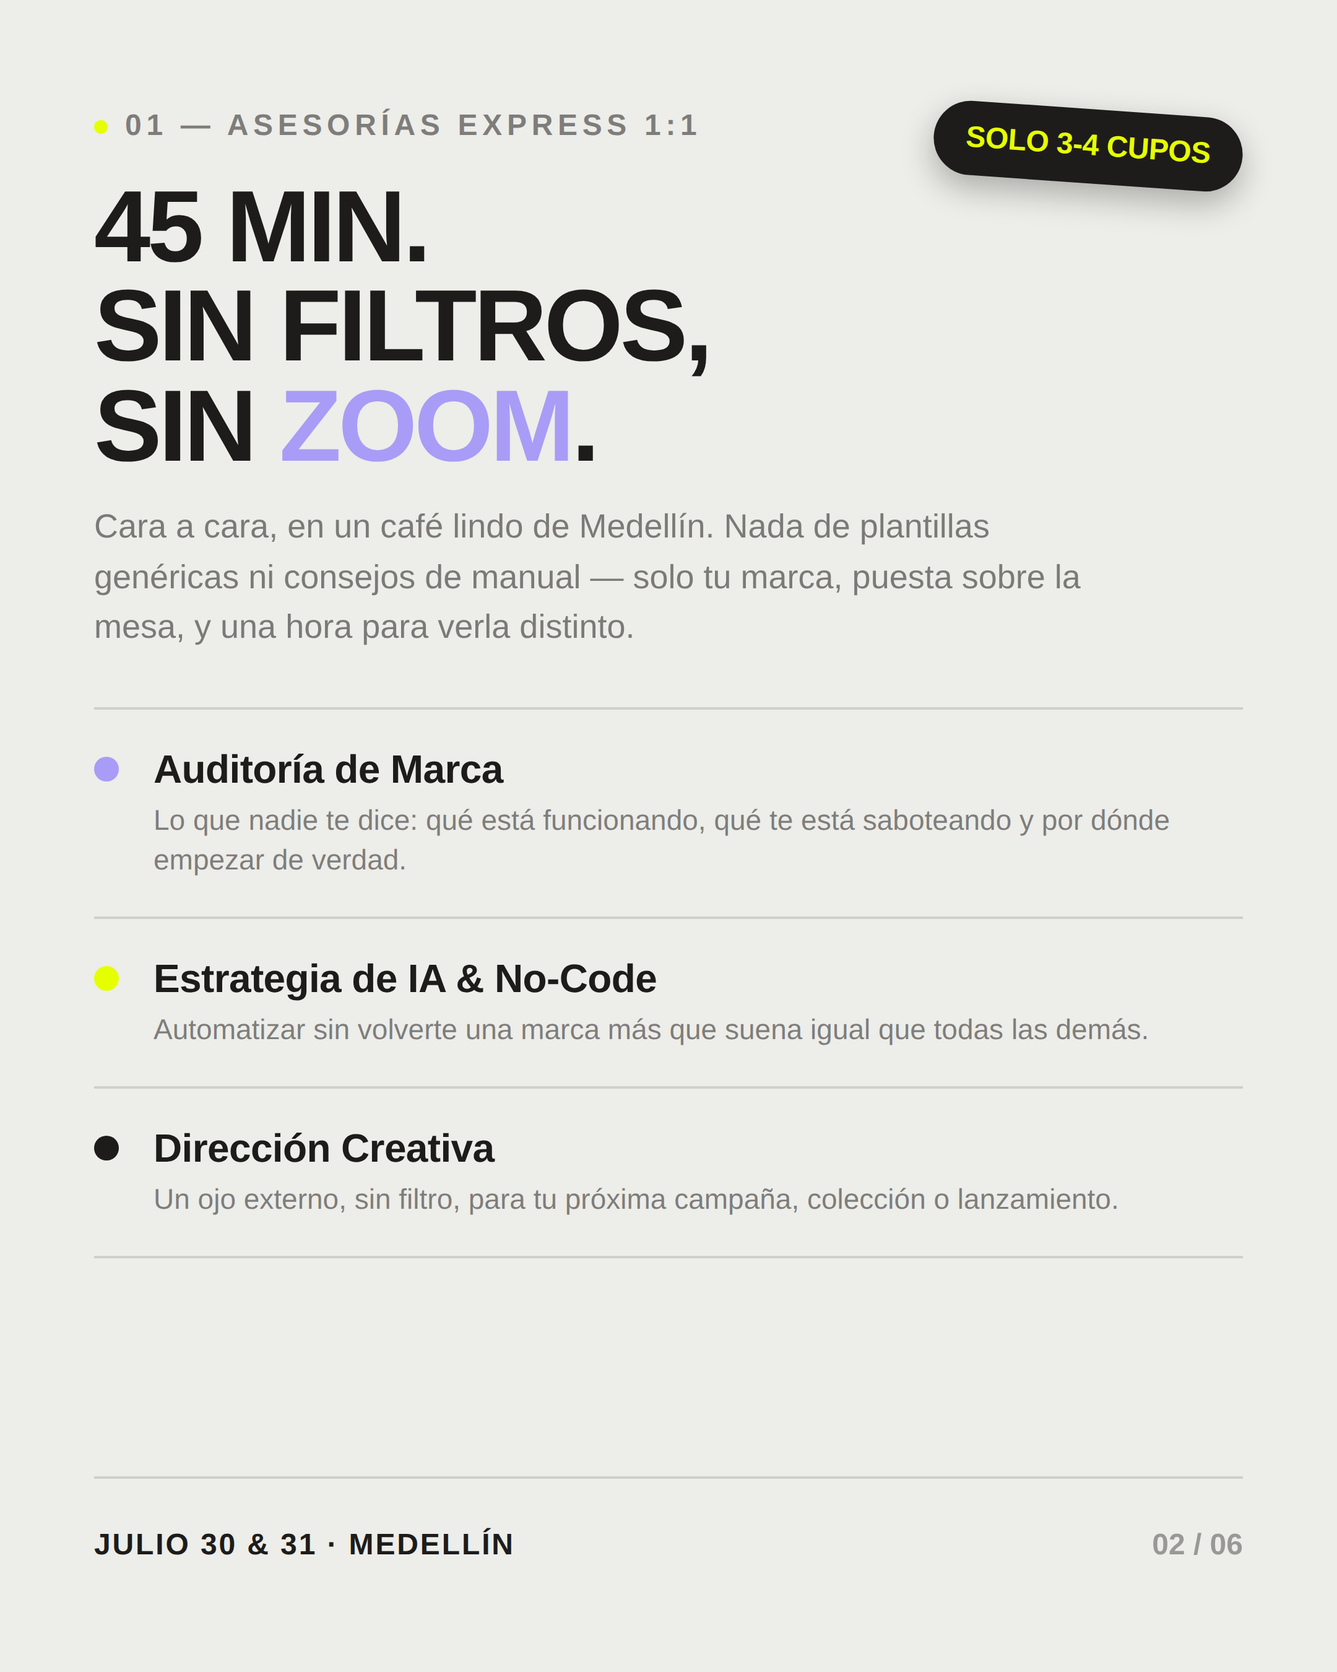
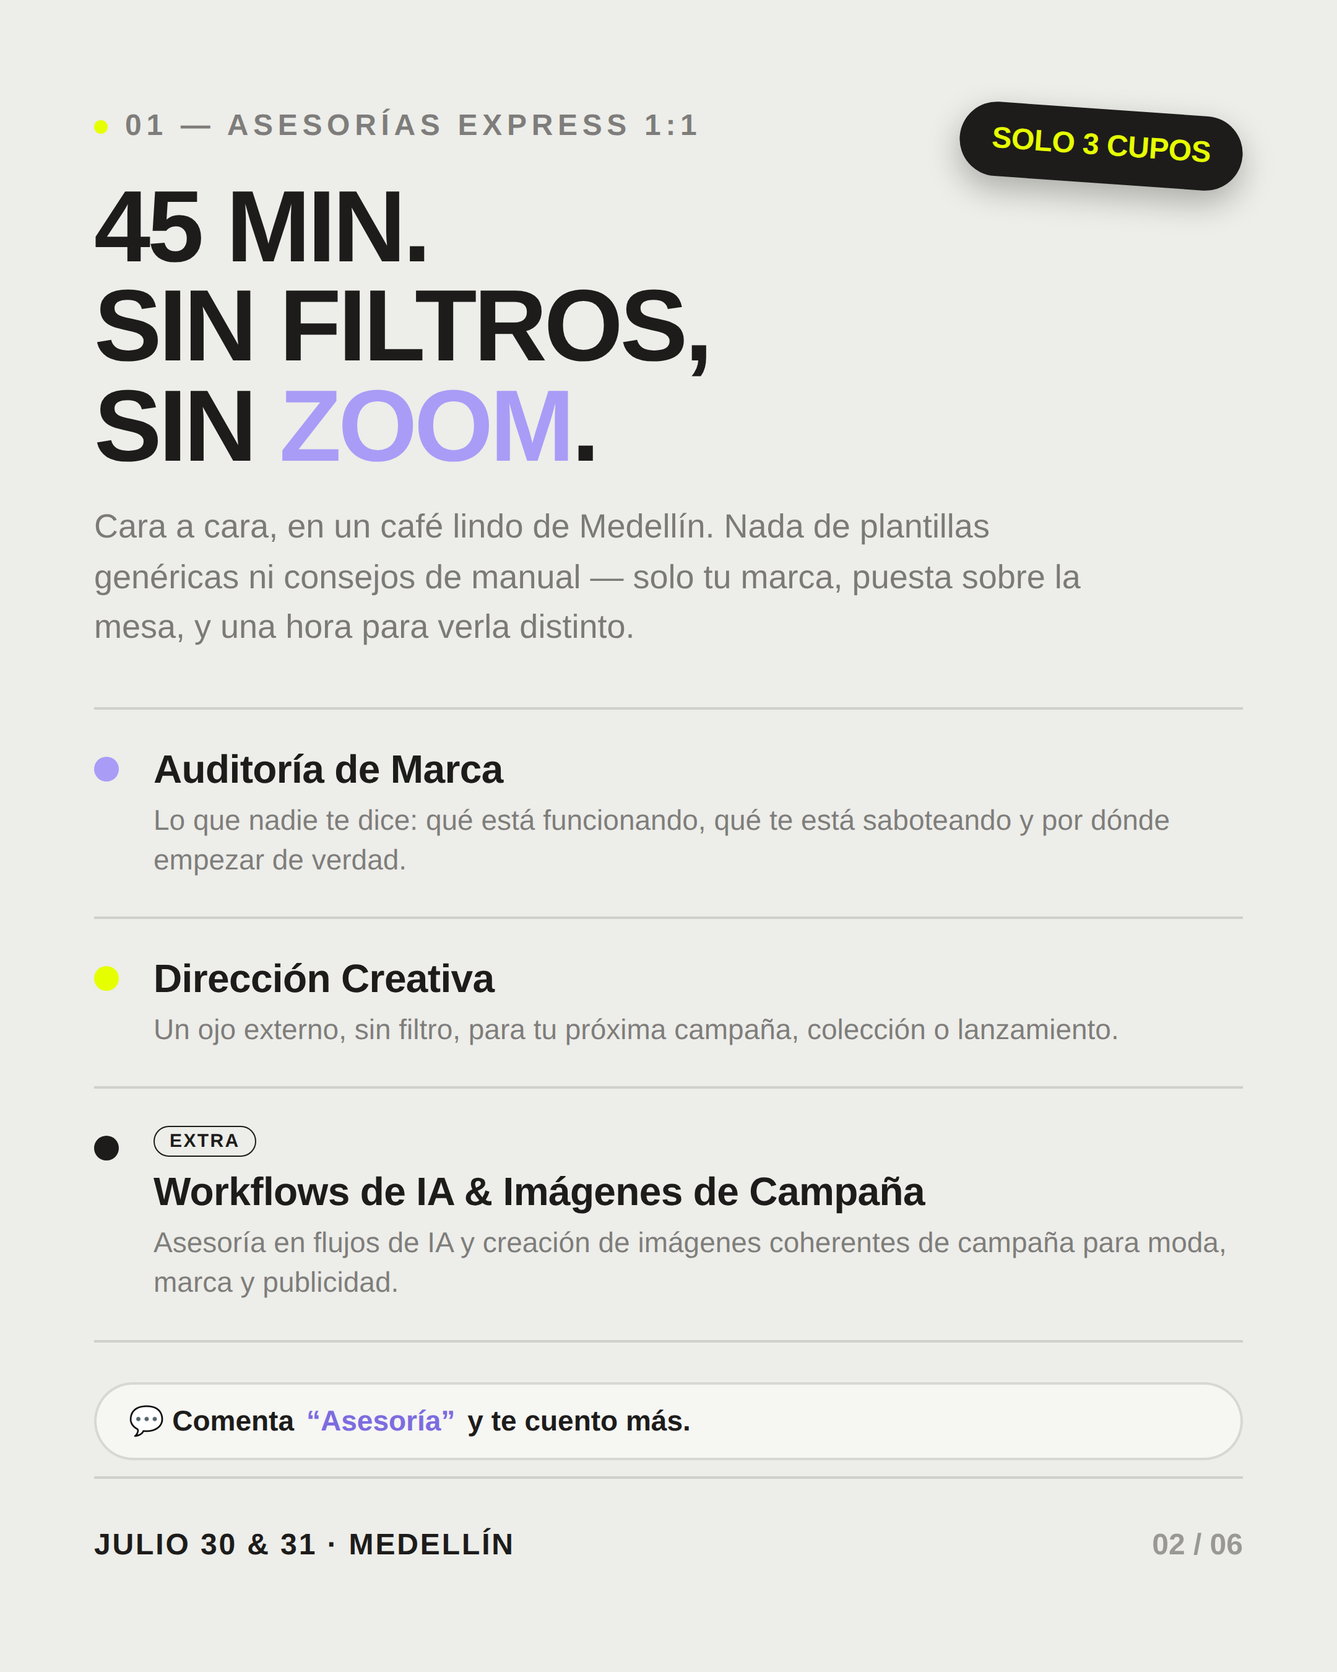
Rewrite carousel with new "casa de Medallo" concept, back to solid black
Reverts the boxed/plum treatment per feedback: dark slides (1, 3, 5, 6)
are full-bleed black again with lilac accents only, no yellow, no
cards. Full copy rewrite around a new hook ("Rose Days en la casa de
Medallo") and updated event specifics: 3 asesoría slots with a new
"extra" AI-workflows/campaign-imagery add-on, the Coffee & IA Creativa
workshop reframed around vibe coding for founders/creatives, and the
Anti-Slop talk moved to Thursday 5pm at CBW Medellín. Adds
comment-to-request CTAs ("Asesoría" / "Coffee") throughout.

diff --git a/Instagram/events-julio-2026/carousel.html b/Instagram/events-julio-2026/carousel.html
@@ -13,7 +13,6 @@
   --ink:#1D1C1B;
   --lilac:#A89CF7;
   --acid:#E6FF00;
-  --plum:#241F3A;
   --ink-soft:rgba(29,28,27,.55);
   --line:rgba(29,28,27,.14);
   --card:#F6F6F3;
@@ -30,14 +29,14 @@ body{background:#3a3a3a;font-family:var(--font-body)}
   margin:0 auto 40px;
 }
 .light{background:var(--bg);color:var(--ink)}
-.plum{background:var(--plum);color:var(--bg)}
+.dark{background:var(--ink);color:var(--bg)}
 
-/* grain-ish glow, used on the plum (bookend) slides only */
-.glow-plum{
+/* grain-ish glow, dark slides only — lilac, no yellow */
+.glow-dark{
   position:absolute;inset:0;pointer-events:none;
   background:
-    radial-gradient(circle at 78% 10%,rgba(168,156,247,.4),transparent 45%),
-    radial-gradient(circle at 15% 90%,rgba(168,156,247,.18),transparent 42%);
+    radial-gradient(circle at 78% 10%,rgba(168,156,247,.28),transparent 45%),
+    radial-gradient(circle at 15% 90%,rgba(168,156,247,.14),transparent 42%);
 }
 
 .pad{position:relative;z-index:1;height:100%;padding:88px 76px;display:flex;flex-direction:column}
@@ -49,18 +48,13 @@ body{background:#3a3a3a;font-family:var(--font-body)}
 }
 .eyebrow .dot{width:11px;height:11px;border-radius:50%;background:var(--acid);display:inline-block}
 .light .eyebrow{color:var(--ink-soft)}
-.plum .eyebrow{color:rgba(237,237,233,.62)}
-.plum .eyebrow .dot{background:var(--lilac)}
+.dark .eyebrow{color:rgba(237,237,233,.62)}
+.dark .eyebrow .dot{background:var(--lilac)}
 
-/* dark card used to hold content on an otherwise light slide, vertically centered between eyebrow and footline */
-.card-wrap{flex:1;display:flex;flex-direction:column;justify-content:center;min-height:0}
-.card-dark{
-  background:var(--ink);color:var(--bg);
-  border-radius:32px;padding:64px 56px;
+.sub-eyebrow{
+  font-family:var(--font-body);font-weight:700;font-size:21px;letter-spacing:.1em;text-transform:uppercase;
+  color:var(--lilac);margin-top:14px;
 }
-.card-dark h2.big{margin-top:0}
-.card-dark .lede{color:rgba(237,237,233,.78)}
-.card-dark .body-txt{color:rgba(237,237,233,.72)}
 
 .pill{
   display:inline-flex;align-items:center;gap:.5em;
@@ -70,8 +64,8 @@ body{background:#3a3a3a;font-family:var(--font-body)}
 }
 .pill.alt{background:var(--lilac);color:var(--ink)}
 .pill.outline{background:transparent;border:2px solid currentColor;color:inherit}
-.plum .pill{background:var(--lilac);color:var(--plum)}
-.plum .pill.alt{background:transparent;border:2px solid var(--bg);color:var(--bg)}
+.dark .pill{background:var(--lilac);color:var(--ink)}
+.dark .pill.alt{background:transparent;border:2px solid var(--bg);color:var(--bg)}
 
 h1.mega{
   font-family:var(--font-display);font-weight:900;text-transform:uppercase;
@@ -88,13 +82,8 @@ h2.big em{font-style:normal;color:var(--lilac)}
 .lede{font-family:var(--font-display);font-weight:700;font-size:38px;line-height:1.22;letter-spacing:-.01em;margin-top:26px;max-width:840px}
 .body-txt{font-family:var(--font-body);font-weight:500;font-size:27px;line-height:1.5;margin-top:20px;max-width:820px}
 .light .body-txt{color:var(--ink-soft)}
-.plum .lede{color:rgba(237,237,233,.78)}
-.plum .body-txt{color:rgba(237,237,233,.72)}
-
-.num{
-  font-family:var(--font-display);font-weight:900;font-size:26px;letter-spacing:.02em;
-  min-width:64px;
-}
+.dark .lede{color:rgba(237,237,233,.85)}
+.dark .body-txt{color:rgba(237,237,233,.72)}
 
 /* offering list */
 .offer-list{margin-top:44px;border-top:2px solid var(--line);}
@@ -107,12 +96,23 @@ h2.big em{font-style:normal;color:var(--lilac)}
 .light .offer p{color:var(--ink-soft)}
 .dot-mark{width:20px;height:20px;border-radius:50%;margin-top:8px;flex:none}
 .d1{background:var(--lilac)}.d2{background:var(--acid)}.d3{background:var(--ink)}
+.mini-tag{
+  display:inline-block;font-family:var(--font-body);font-weight:700;font-size:15px;letter-spacing:.08em;text-transform:uppercase;
+  border:1.5px solid var(--ink);border-radius:999px;padding:3px 12px;margin-bottom:10px;
+}
+
+.comment-cta{
+  margin-top:32px;display:inline-flex;align-items:center;gap:10px;
+  background:var(--card);border:2px solid var(--line);border-radius:999px;
+  padding:16px 26px;font-family:var(--font-body);font-weight:600;font-size:23px;
+}
+.comment-cta b{color:#7d6ce0}
 
 .footline{
   margin-top:auto;display:flex;justify-content:space-between;align-items:flex-end;
   padding-top:40px;border-top:2px solid var(--line);
 }
-.plum .footline{border-top-color:rgba(237,237,233,.18)}
+.dark .footline{border-top-color:rgba(237,237,233,.18)}
 .footline .tag{font-family:var(--font-body);font-weight:600;font-size:24px;letter-spacing:.06em;text-transform:uppercase}
 .footline .idx{font-family:var(--font-display);font-weight:900;font-size:24px;opacity:.4}
 
@@ -143,8 +143,8 @@ h2.big em{font-style:normal;color:var(--lilac)}
   border-radius:24px;padding:34px 38px;
 }
 .sched-day .d-label{font-family:var(--font-display);font-weight:900;font-size:22px;letter-spacing:.1em;text-transform:uppercase;color:var(--lilac)}
-.sched-day h3{font-family:var(--font-display);font-weight:800;font-size:40px;margin-top:10px;letter-spacing:-.01em}
-.sched-day p{font-family:var(--font-body);font-weight:500;font-size:24px;margin-top:8px;color:rgba(237,237,233,.65)}
+.sched-day h3{font-family:var(--font-display);font-weight:800;font-size:36px;margin-top:10px;letter-spacing:-.01em}
+.sched-day p{font-family:var(--font-body);font-weight:500;font-size:23px;margin-top:8px;color:rgba(237,237,233,.65)}
 
 /* CTA slide */
 .cta-wordmark{
@@ -152,7 +152,7 @@ h2.big em{font-style:normal;color:var(--lilac)}
   font-size:96px;letter-spacing:-.04em;line-height:.9;margin-top:auto;
 }
 .cta-wordmark .sub{display:block;font-size:.34em;color:var(--lilac);font-weight:700;margin-top:.3em;letter-spacing:.02em}
-.contact-line{font-family:var(--font-body);font-weight:600;font-size:30px;margin-top:30px;letter-spacing:.01em}
+.contact-line{font-family:var(--font-body);font-weight:600;font-size:28px;margin-top:30px;letter-spacing:.01em;line-height:1.4}
 .contact-line a{color:inherit}
 
 .check-list{margin-top:38px;display:flex;flex-direction:column;gap:20px}
@@ -161,7 +161,7 @@ h2.big em{font-style:normal;color:var(--lilac)}
   font-family:var(--font-body);font-weight:600;font-size:27px;
 }
 .check-list .ck{
-  width:34px;height:34px;border-radius:50%;background:var(--lilac);color:var(--plum);
+  width:34px;height:34px;border-radius:50%;background:var(--lilac);color:var(--ink);
   display:flex;align-items:center;justify-content:center;font-weight:900;font-size:18px;flex:none;
 }
 </style>
@@ -169,16 +169,16 @@ h2.big em{font-style:normal;color:var(--lilac)}
 <body>
 
 <!-- ===================== SLIDE 1 — COVER ===================== -->
-<section class="slide plum" id="slide-1">
-  <div class="glow-plum"></div>
+<section class="slide dark" id="slide-1">
+  <div class="glow-dark"></div>
   <div class="pad">
-    <span class="eyebrow"><span class="dot"></span>Medellín · Presencial</span>
-    <h1 class="mega">Basta de<br>piloto<br>automático<em>*</em></h1>
-    <p class="lede">30 y 31 de julio, Medellín. Dos días para pensar de nuevo — no para publicar más rápido.</p>
+    <span class="eyebrow"><span class="dot"></span>Rose Days · Medellín</span>
+    <h1 class="mega">En la<br>casa de<br>Medallo<em>*</em></h1>
+    <p class="lede">30 y 31 de julio, Rose Days quiere compartir contigo — apúntate a las actividades que preparé para ti.</p>
 
     <div class="chips-row">
       <span class="pill">Julio 30 &amp; 31</span>
-      <span class="pill alt">Cupos súper limitados</span>
+      <span class="pill alt">Cupos limitados</span>
     </div>
 
     <div class="footline">
@@ -201,32 +201,34 @@ h2.big em{font-style:normal;color:var(--lilac)}
 
     <div class="offer-list">
       <div class="offer"><span class="dot-mark d1"></span><div><h3>Auditoría de Marca</h3><p>Lo que nadie te dice: qué está funcionando, qué te está saboteando y por dónde empezar de verdad.</p></div></div>
-      <div class="offer"><span class="dot-mark d2"></span><div><h3>Estrategia de IA &amp; No-Code</h3><p>Automatizar sin volverte una marca más que suena igual que todas las demás.</p></div></div>
-      <div class="offer"><span class="dot-mark d3"></span><div><h3>Dirección Creativa</h3><p>Un ojo externo, sin filtro, para tu próxima campaña, colección o lanzamiento.</p></div></div>
+      <div class="offer"><span class="dot-mark d2"></span><div><h3>Dirección Creativa</h3><p>Un ojo externo, sin filtro, para tu próxima campaña, colección o lanzamiento.</p></div></div>
+      <div class="offer"><span class="dot-mark d3"></span><div><span class="mini-tag">Extra</span><h3>Workflows de IA &amp; Imágenes de Campaña</h3><p>Asesoría en flujos de IA y creación de imágenes coherentes de campaña para moda, marca y publicidad.</p></div></div>
     </div>
+
+    <p class="comment-cta">💬 Comenta <b>&ldquo;Asesoría&rdquo;</b> y te cuento más.</p>
 
     <div class="footline">
       <span class="tag">Julio 30 &amp; 31 · Medellín</span>
       <span class="idx">02 / 06</span>
     </div>
   </div>
-  <div class="badge-cupos">Solo 3-4 cupos</div>
+  <div class="badge-cupos">Solo 3 cupos</div>
 </section>
 
-<!-- ===================== SLIDE 3 — TALLER EXPRESS IA ===================== -->
-<section class="slide light" id="slide-3">
+<!-- ===================== SLIDE 3 — COFFEE & IA CREATIVA ===================== -->
+<section class="slide dark" id="slide-3">
+  <div class="glow-dark"></div>
   <div class="pad">
     <span class="eyebrow"><span class="dot"></span>02 — Taller Express</span>
-    <div class="card-wrap"><div class="card-dark">
-      <h2 class="big">Coffee &amp;<br><em>IA</em> creativa</h2>
-      <p class="lede">Una tarde para dejar de darle vueltas al mismo prompt. 1.5 horas para creativos que quieren usar la IA sin que se les note el piloto automático.</p>
-      <p class="body-txt">Mesa compartida, en un espacio aliado (café de especialidad o coworking). Nada de webinar ni clase magistral — se prueba, se comenta entre pares, y te llevas algo real de vuelta al estudio.</p>
+    <p class="sub-eyebrow">Para emprendedores y creativos · Nivel básico</p>
+    <h2 class="big">Coffee &amp;<br><em>IA</em> creativa</h2>
+    <p class="lede">Crear con IA — de la idea a tu propia herramienta.</p>
+    <p class="body-txt">Deja de pagar por SaaS o servicios mes a mes que tú mismo puedes construir: tu propio CRM, una landing de servicios, tu web de portafolio, una app para tus hábitos o comidas — y mucho más con vibe coding.</p>
+    <p class="body-txt">Mesa compartida, cupo mínimo — comenta <b>&ldquo;Coffee&rdquo;</b> para más info y separar tu cupo.</p>
 
-      <div class="chips-row">
-        <span class="pill alt">Jueves 30 julio</span>
-        <span class="pill outline">Cupos reducidos</span>
-      </div>
-    </div></div>
+    <div class="chips-row">
+      <span class="pill alt">Jueves 30 julio</span>
+    </div>
 
     <div class="footline">
       <span class="tag">Medellín</span>
@@ -240,40 +242,41 @@ h2.big em{font-style:normal;color:var(--lilac)}
   <div class="pad">
     <span class="eyebrow"><span class="dot"></span>03 — Charla</span>
     <h2 class="big">IA <em>anti-slop</em></h2>
-    <p class="lede">El feed ya está lleno de contenido que nadie recuerda cinco minutos después. Esto no es sobre usar más IA — es sobre usarla con criterio propio.</p>
-    <p class="body-txt">Qué hace que un contenido se sienta genérico, qué lo salva, y cómo mantener tu voz cuando la máquina te ofrece la versión fácil primero.</p>
+    <p class="lede">Cómo mantener una marca coherente —visual y verbal— cuando todo lo genera la IA.</p>
+    <p class="body-txt">Conversamos con 3 expertos sobre cómo evitar que tu contenido, tus posts, tus flyers y tu marca suenen igual a todos los demás.</p>
 
     <div class="chips-row">
-      <span class="pill">Viernes 31 julio</span>
+      <span class="pill">Jueves 30 · 5:00 PM</span>
+      <span class="pill alt">CBW Medellín</span>
+      <span class="pill outline">Entrada libre</span>
     </div>
 
     <div class="footline">
-      <span class="tag">Medellín</span>
+      <span class="tag">CBW Medellín</span>
       <span class="idx">04 / 06</span>
     </div>
   </div>
 </section>
 
 <!-- ===================== SLIDE 5 — AGENDA ===================== -->
-<section class="slide light" id="slide-5">
+<section class="slide dark" id="slide-5">
+  <div class="glow-dark"></div>
   <div class="pad">
     <span class="eyebrow"><span class="dot"></span>La agenda completa</span>
-    <div class="card-wrap"><div class="card-dark">
-      <h2 class="big">Dos días.<br>Tres formatos.</h2>
+    <h2 class="big">Dos días.<br>Tres actividades.</h2>
 
-      <div class="sched">
-        <div class="sched-day">
-          <span class="d-label">Jueves 30</span>
-          <h3>Asesorías 1:1 + Coffee &amp; IA Creativa</h3>
-          <p>Sesiones express por la mañana, y por la tarde el taller íntimo para perderle el miedo a la IA sin perder el criterio.</p>
-        </div>
-        <div class="sched-day">
-          <span class="d-label">Viernes 31</span>
-          <h3>Asesorías 1:1 + Charla IA Anti-Slop</h3>
-          <p>Últimos cupos de asesorías, y una charla abierta sobre cómo hacer contenido que sí se quede.</p>
-        </div>
+    <div class="sched">
+      <div class="sched-day">
+        <span class="d-label">Jueves 30</span>
+        <h3>Asesorías 1:1 + Coffee &amp; IA Creativa + Charla Anti-Slop</h3>
+        <p>Sesiones express durante el día, taller de vibe coding, y a las 5:00 pm la charla sobre marca coherente en la era de la IA — CBW Medellín.</p>
       </div>
-    </div></div>
+      <div class="sched-day">
+        <span class="d-label">Viernes 31</span>
+        <h3>Asesorías 1:1</h3>
+        <p>Últimos cupos de asesorías express: auditoría de marca, dirección creativa o workflows de IA.</p>
+      </div>
+    </div>
 
     <div class="footline">
       <span class="tag">Medellín · Presencial</span>
@@ -283,23 +286,23 @@ h2.big em{font-style:normal;color:var(--lilac)}
 </section>
 
 <!-- ===================== SLIDE 6 — CTA ===================== -->
-<section class="slide plum" id="slide-6">
-  <div class="glow-plum"></div>
+<section class="slide dark" id="slide-6">
+  <div class="glow-dark"></div>
   <div class="pad">
     <span class="eyebrow"><span class="dot"></span>Cupos abiertos ahora</span>
-    <h2 class="big">Sal del<br>piloto<br>automático<em>*</em></h2>
+    <h2 class="big">Te espero<br>en Medallo<em>*</em></h2>
 
     <ul class="check-list">
-      <li><span class="ck">✓</span>Solo 3-4 asesorías 1:1 — así de en serio va lo de exclusivo</li>
-      <li><span class="ck">✓</span>Taller Coffee &amp; IA — mesa compartida, cupo mínimo</li>
-      <li><span class="ck">✓</span>Charla anti-slop — entrada abierta para todos</li>
+      <li><span class="ck">✓</span>Asesorías 1:1 — solo 3 cupos, comenta &ldquo;Asesoría&rdquo;</li>
+      <li><span class="ck">✓</span>Coffee &amp; IA Creativa — cupo mínimo, comenta &ldquo;Coffee&rdquo;</li>
+      <li><span class="ck">✓</span>Charla anti-slop — jueves 5pm, CBW Medellín, entrada libre</li>
     </ul>
 
-    <p class="contact-line">Escríbeme por DM o a <a href="mailto:lerosedays@icloud.com">lerosedays@icloud.com</a> antes de que se acaben los cupos.</p>
+    <p class="contact-line">Escríbeme por DM o a <a href="mailto:lerosedays@icloud.com">lerosedays@icloud.com</a> — o comenta la palabra clave de la actividad que te interese.</p>
 
     <h2 class="cta-wordmark">ROSEDAYS<span class="sub">Brand Lab · Medellín</span></h2>
   </div>
-  <div class="mascot" style="width:270px;height:270px;right:-30px;top:800px;transform:rotate(-8deg)">
+  <div class="mascot" style="width:270px;height:270px;right:-30px;top:920px;transform:rotate(-8deg)">
     <img src="../../Images/Hero/11669922.png" alt="">
   </div>
 </section>

diff --git a/Instagram/events-julio-2026/caption.md b/Instagram/events-julio-2026/caption.md
@@ -2,31 +2,31 @@
 
 ## Copy para el post (caption)
 
-El feed está lleno de contenido que nadie recuerda cinco minutos después. Yo tampoco quiero sumarle uno más.
+Rose Days está en la casa de Medallo, y quiere compartir contigo 🌹
 
-Por eso, del 30 al 31 de julio, abro agenda en Medellín — presencial, cara a cara, sin pantallas de por medio. Tres formas distintas de salir del piloto automático:
+Este 30 y 31 de julio abro agenda en Medellín — presencial, cara a cara. Apúntate a la actividad que más te llame:
 
-🟣 **Asesorías Express 1:1** (45 min) — Auditoría de Marca / Estrategia de IA & No-Code / Dirección Creativa. En un café lindo, solo 3-4 cupos en total. Nada de plantillas ni consejos genéricos: tu marca, sobre la mesa, con alguien que te dice lo que nadie más te dice.
+🟣 **Asesorías Express 1:1** (45 min) — Auditoría de Marca, Dirección Creativa, y de extra: asesoría en workflows de IA y creación de imágenes coherentes de campaña para moda, marca y publicidad. Solo 3 cupos en total. Comenta **"Asesoría"** y te cuento más.
 
-☕ **Coffee & IA Creativa** (jueves 30) — 1.5 horas, mesa compartida, para creativos que quieren perderle el miedo a la IA sin perder su voz. Un laboratorio, no una clase magistral.
+☕ **Coffee & IA Creativa** (jueves 30) — Para emprendedores y creativos, nivel básico. Crear con IA: de la idea a tu propia herramienta. Deja de pagar por SaaS o servicios mes a mes que tú mismo puedes construir — tu CRM, tu landing, tu web de portafolio, una app para tus hábitos, y mucho más con vibe coding. Mesa compartida, cupo mínimo. Comenta **"Coffee"** para más info y separar tu cupo.
 
-🎤 **Charla "IA Anti-Slop"** (viernes 31) — Entrada abierta. Sobre cómo hacer contenido con IA que sí se quede, en vez de sumar una gota más al mar de lo genérico.
+🎤 **Charla "IA Anti-Slop"** (jueves 30, 5:00 pm, CBW Medellín) — Entrada libre. Cómo mantener una marca coherente, visual y verbal, cuando todo lo genera la IA. Conversamos con 3 expertos sobre cómo evitar que tu contenido, tus posts, tus flyers y tu marca suenen igual a todos los demás.
 
-Cupos limitados en los tres formatos. Escríbeme por DM o a lerosedays@icloud.com antes de que se acaben.
+Cupos limitados en asesorías y en el taller — comenta la palabra clave de la actividad que te interese, o escríbeme por DM / a lerosedays@icloud.com.
 
-¿Cuál te llama más — la asesoría 1:1, el taller o la charla? Cuéntame en comentarios 👇
+Te espero en Medallo 👇
 
 ---
 
 ## Hashtags sugeridos
 
-#Medellín #BrandStrategy #DirecciónCreativa #IAcreativa #MarketingMedellín #BrandLab #ContentStrategy #NoCode #TallerIA #CreativosMedellín #AntiSlop #EventosMedellín
+#Medellín #Medallo #BrandStrategy #DirecciónCreativa #IAcreativa #VibeCoding #MarketingMedellín #BrandLab #TallerIA #CreativosMedellín #AntiSlop #EventosMedellín
 
 ---
 
 ## Notas de producción
 
 - 6 slides, 1080×1350px (4:5), listas para subir en orden slide-01 → slide-06.
-- Paleta y tipografías tomadas directo del sitio (`index.html`): Satoshi 900 (titulares), Bricolage Grotesque (cuerpo), acento lila `#A89CF7` y verde ácido `#E6FF00` sobre ink `#1D1C1B` / bg `#EDEDE9`.
+- Paleta y tipografías tomadas directo del sitio (`index.html`): Satoshi 900 (titulares), Bricolage Grotesque (cuerpo). Slides oscuras (1, 3, 5, 6) en ink `#1D1C1B` con acento lila `#A89CF7` (sin amarillo); slides claras (2, 4) en bg `#EDEDE9` con toques de verde ácido `#E6FF00`.
 - Mascotas ilustradas reutilizadas de `Images/Hero/` para mantener continuidad visual con el resto del portafolio.
 - Fuente editable: `carousel.html` en esta misma carpeta — reexportar con Playwright si cambia el copy (ver `slide-0X.png`).
